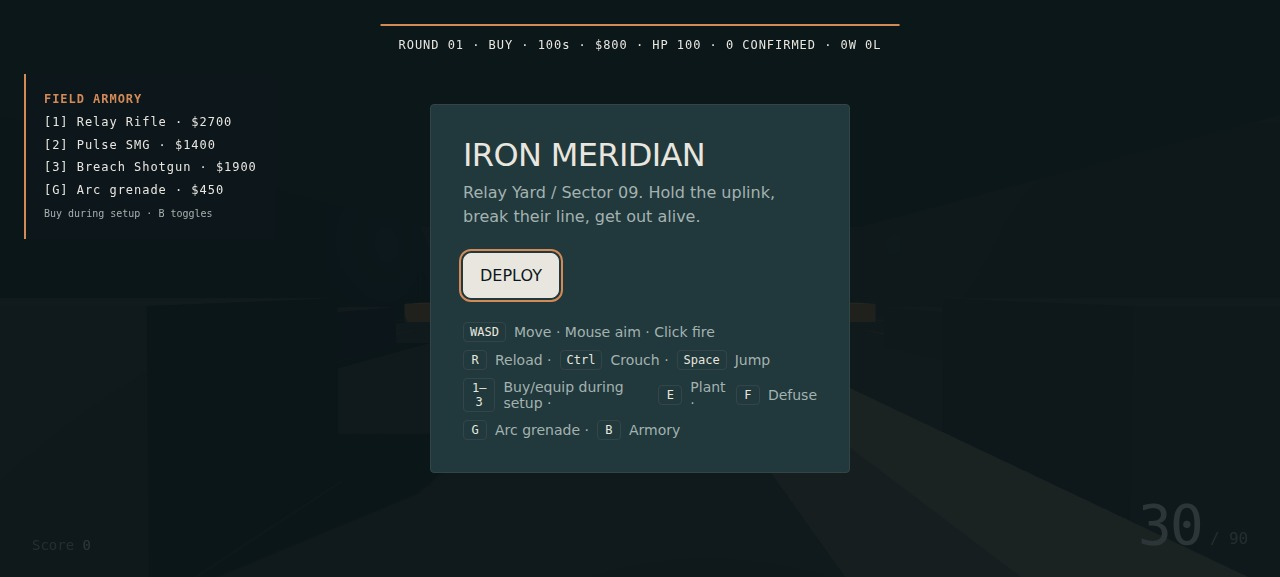
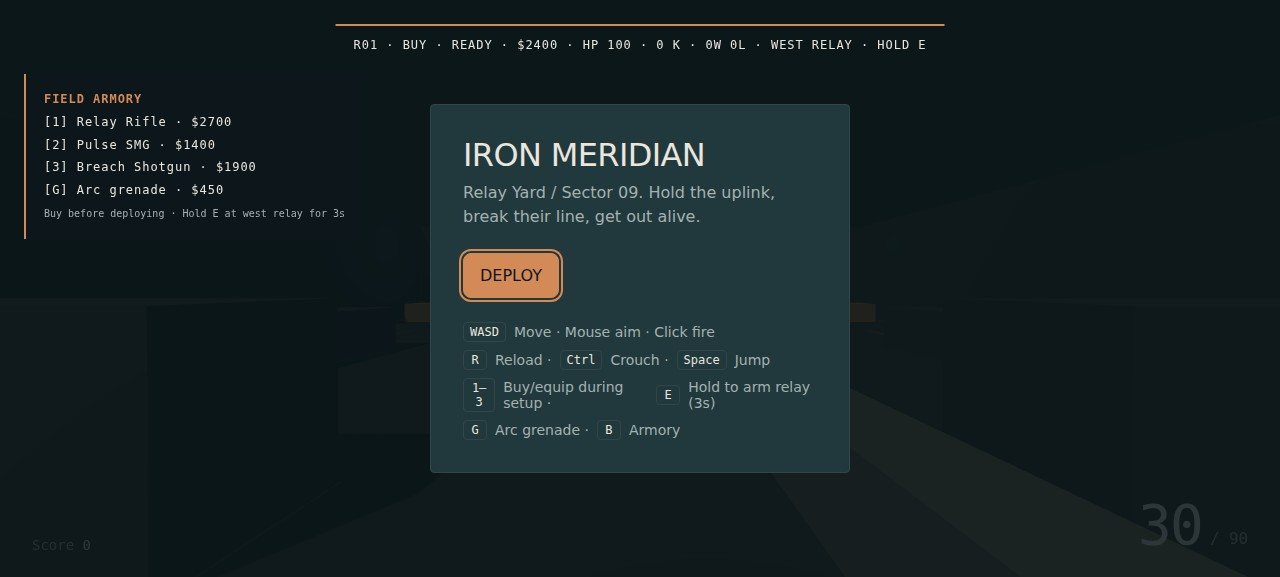
Repair live loop and implement tested relay round lifecycle

diff --git a/game/src/main.js b/game/src/main.js
@@ -1,82 +1,153 @@
-// Boot and the one loop: a fixed 60 Hz simulation feeding a render at the display's rate.
-// ?shot=start|play|end with &seed=N sets up a deterministic frame for a capture, renders it
-// twice, then freezes it and sets window.__shotReady.
+// Iron Meridian: offline relay assault, fixed-step simulation and explicit round rules.
 import * as THREE from 'three';
-import { PALETTE } from './palette.js';
-import { createWorld } from './world.js';
-import { createInput } from './input.js';
-import { createPlayer } from './player.js';
-import { createWeapon } from './weapon.js';
-import { createTargets } from './targets.js';
-import { createHud } from './hud.js';
-
-const FIXED_STEP = 1 / 60;
-const params = new URLSearchParams(window.location.search);
-const shot = params.get('shot');
-const seed = Number.parseInt(params.get('seed') ?? '1', 10) || 1;
-
-function mulberry32(initial) {
-  let a = initial;
-  return function random() {
-    a |= 0;
-    a = (a + 0x6d2b79f5) | 0;
-    let t = Math.imul(a ^ (a >>> 15), 1 | a);
-    t = (t + Math.imul(t ^ (t >>> 7), 61 | t)) ^ t;
-    return ((t ^ (t >>> 14)) >>> 0) / 4294967296;
-  };
-}
-const random = mulberry32(seed);
-
-const renderer = new THREE.WebGLRenderer({ antialias: true, powerPreference: 'high-performance' });
-renderer.setPixelRatio(Math.min(window.devicePixelRatio, 2));
-renderer.setSize(window.innerWidth, window.innerHeight);
-renderer.shadowMap.enabled = true;
-renderer.shadowMap.type = THREE.PCFSoftShadowMap;
+import {PALETTE} from './palette.js';
+import {createWorld} from './world.js';
+import {createInput} from './input.js';
+import {createPlayer} from './player.js';
+import {createWeapon} from './weapon.js';
+import {createTargets} from './targets.js';
+import {createHud} from './hud.js';
+import {createRound,STORE} from './round.mjs';
+const params=new URLSearchParams(location.search),shot=params.get('shot');
+let seed=Number(params.get('seed'))||1;
+function random(){seed|=0;seed=(seed+0x6d2b79f5)|0;let t=Math.imul(seed^(seed>>>15),1|seed);t=(t+Math.imul(t^(t>>>7),61|t))^t;return((t^(t>>>14))>>>0)/4294967296;}
+const renderer=new THREE.WebGLRenderer({antialias:true,powerPreference:'high-performance'});
+renderer.setPixelRatio(Math.min(devicePixelRatio,2));
+renderer.setSize(innerWidth,innerHeight);
+renderer.shadowMap.enabled=true;
+renderer.shadowMap.type=THREE.PCFSoftShadowMap;
 document.getElementById('game').appendChild(renderer.domElement);
-
-const scene = new THREE.Scene();
-scene.background = new THREE.Color(PALETTE.canvas);
-scene.fog = new THREE.Fog(new THREE.Color(PALETTE.canvas), 18, 46);
-const camera = new THREE.PerspectiveCamera(74, window.innerWidth / window.innerHeight, 0.05, 140);
+const scene=new THREE.Scene();
+scene.background=new THREE.Color(PALETTE.canvas);
+scene.fog=new THREE.Fog(PALETTE.canvas,18,46);
+const camera=new THREE.PerspectiveCamera(74,innerWidth/innerHeight,.05,140);
 scene.add(camera);
-
-const world = createWorld(scene);
-const targets = createTargets(scene);
-const weapon = createWeapon(camera);
-const hud = createHud();
-const player = createPlayer(world.colliders);
-const input = createInput(renderer.domElement, onLockChange);
-const raycaster = new THREE.Raycaster();
-raycaster.far = 80;
-const shootables = world.shootables.concat(targets.hitMeshes);
-const direction = new THREE.Vector3();
-
-const PHASES={BUY:'BUY',LIVE:'LIVE',PLANT:'PLANT',ROUND_END:'ROUND_END'};
-const body=player.state, markerHoldMs=shot?4000:90, lastTime=performance.now();
-let accumulator=0, elapsed=0;
-let phase=PHASES.BUY, round=1, phaseTime=0, health=100, credits=800, wins=0, losses=0, planted=false, defuse=0, kills=0;
-const STORE={rifle:{cost:2700,mag:30,reserve:90},smg:{cost:1400,mag:36,reserve:108},shotgun:{cost:1900,mag:8,reserve:40}};
-let selected='rifle';
-const damageText=document.getElementById('damage-flash');
-const statusText=document.getElementById('round-objective');
-const storeText=document.getElementById('buy-menu');
-const objective=new THREE.Mesh(new THREE.OctahedronGeometry(.26,0),new THREE.MeshStandardMaterial({color:0xd38a57,emissive:0x7a2b13,emissiveIntensity:1.4}));objective.position.set(-8,1.65,-10);scene.add(objective);
-const objectiveRing=new THREE.Mesh(new THREE.TorusGeometry(1.6,.035,8,48),new THREE.MeshBasicMaterial({color:0xd38a57,transparent:true,opacity:.7}));objectiveRing.rotation.x=Math.PI/2;objectiveRing.position.set(-8,.08,-10);scene.add(objectiveRing);
-hud.setAmmo(weapon.state.mag,weapon.state.reserve);hud.setScore(0);
-targets.onPlayerDamage((amount)=>{if(phase!==PHASES.LIVE&&phase!==PHASES.PLANT)return;health=Math.max(0,health-amount);damageText.classList.add('show');setTimeout(()=>damageText.classList.remove('show'),150);if(health===0)finishRound(false);});
-hud.onPlay(()=>{if(phase===PHASES.BUY){phase=PHASES.LIVE;phaseTime=0;input.requestLock();}});
-function buy(name){if(phase!==PHASES.BUY)return;const item=STORE[name];if(!item||credits<item.cost)return;credits-=item.cost;selected=name;weapon.configure(item.mag,item.reserve);hud.setAmmo(weapon.state.mag,weapon.state.reserve);}
-function finishRound(won){phase=PHASES.ROUND_END;phaseTime=0;if(won){wins++;credits+=3250;kills+=1;}else{losses++;credits+=1900;}hud.setScore(wins*100+losses*40);if(document.pointerLockElement)document.exitPointerLock();hud.showOverlay(won?'end':'paused',wins*100+losses*40);}
-function restart(){round++;phase=PHASES.BUY;phaseTime=0;health=100;planted=false;defuse=0;player.state.position.set(0,0,9.5);targets.reset();weapon.refill();weapon.configure(STORE[selected].mag,STORE[selected].reserve);hud.setAmmo(weapon.state.mag,weapon.state.reserve);hud.showOverlay('start',wins*100+losses*40);}
-function onLockChange(locked){if(shot)return;if(locked){if(phase===PHASES.BUY){phase=PHASES.LIVE;phaseTime=0;}started=true;hud.hideOverlay();}else if(phase===PHASES.LIVE||phase===PHASES.PLANT)hud.showOverlay('paused',wins*100+losses*40);}
-function syncCamera(){camera.position.set(body.position.x,body.position.y+body.eye,body.position.z);camera.rotation.set(body.pitch,body.yaw,0,'YXZ');}
-function aimAt(point){const dx=point.x-body.position.x,dy=point.y-(body.position.y+body.eye),dz=point.z-body.position.z,length=Math.hypot(dx,dy,dz)||1;body.yaw=Math.atan2(-dx,-dz);body.pitch=Math.asin(Math.max(-1,Math.min(1,dy/length)));syncCamera();}
-function throwGrenade(){if(phase!==PHASES.LIVE||credits<450)return;credits-=450;camera.getWorldDirection(direction);const origin=camera.position.clone();const grenade=new THREE.Mesh(new THREE.SphereGeometry(.14,12,8),new THREE.MeshStandardMaterial({color:0x73c8b1,emissive:0x174a43}));grenade.position.copy(origin);scene.add(grenade);const velocity=direction.clone().multiplyScalar(9);let t=0;const tick=setInterval(()=>{t+=.04;velocity.y-=.35;grenade.position.addScaledVector(velocity,.04);if(t>1.3){clearInterval(tick);const blast=new THREE.PointLight(0x73c8b1,65,9);blast.position.copy(grenade.position);scene.add(blast);setTimeout(()=>{scene.remove(blast);scene.remove(grenade);},220);for(const item of targets.items){if(item.alive&&item.group.position.distanceTo(grenade.position)<5)targets.damage(item.torso,100);}}},40);}
-function shoot(spread){if(!weapon.takeRound())return false;camera.getWorldDirection(direction);direction.x+=(random()*2-1)*spread;direction.y+=(random()*2-1)*spread;direction.z+=(random()*2-1)*spread;direction.normalize();scene.updateMatrixWorld(true);raycaster.set(camera.position,direction);const hit=raycaster.intersectObjects(shootables,false)[0];if(hit&&hit.object.userData.target){const killed=targets.damage(hit.object,hit.object.userData.part==='head'?100:34);if(killed){kills++;credits+=300;hud.setScore(wins*100+losses*40+kills*10);}hud.hitMarker(killed,markerHoldMs);if(targets.remaining()===0)finishRound(true);}weapon.pullTrigger();player.recoil(.009+random()*.004,(random()*2-1)*.004);hud.setAmmo(weapon.state.mag,weapon.state.reserve);return true;}
-function step(dt){elapsed+=dt;player.step(dt,input.state.keys);weapon.step(dt);targets.step(dt,elapsed,body.position);if(phase===PHASES.LIVE||phase===PHASES.PLANT){phaseTime+=dt;if(!planted&&phaseTime>22)phase=PHASES.PLANT;if(planted&&phaseTime>45)finishRound(false);if(!planted&&body.position.distanceTo(objective.position)<2.2&&input.state.keys.has('KeyE')){planted=true;phase=PHASES.PLANT;phaseTime=0;objective.material.color.set(0xff4a3d);}if(planted&&body.position.distanceTo(objective.position)<2.2&&input.state.keys.has('KeyF')){defuse+=dt;if(defuse>4)finishRound(true);}else defuse=0;if(phaseTime>100&&!planted)finishRound(false);}else if(phase===PHASES.ROUND_END){phaseTime+=dt;if(phaseTime>3)restart();}}
-function frame(now){requestAnimationFrame(frame);const dt=Math.min((now-lastTime)/1000,.1);lastTime=now;if(!frozen){const look=input.takeLook();player.look(look.x,look.y);if(input.state.firing&&weapon.ready())shoot(weapon.spread(player.groundSpeed()));if(input.state.keys.has('KeyR'))weapon.reload();if(input.state.keys.has('Digit1'))buy('rifle');if(input.state.keys.has('Digit2'))buy('smg');if(input.state.keys.has('Digit3'))buy('shotgun');if(input.state.keys.has('KeyG'))throwGrenade();if(input.state.keys.has('KeyB'))storeText.classList.toggle('show');accumulator+=dt;let steps=0;while(accumulator>=FIXED_STEP&&steps<5){step(FIXED_STEP);accumulator-=FIXED_STEP;steps++;}if(accumulator>FIXED_STEP*5)accumulator=0;syncCamera();statusText.textContent=`ROUND ${String(round).padStart(2,'0')} · ${phase} · ${Math.max(0,Math.ceil((phase===PHASES.BUY?12:100-phaseTime)))}s · $${credits} · HP ${health} · ${kills} CONFIRMED · ${wins}W ${losses}L`;statusText.classList.add('show');if(phase===PHASES.BUY)storeText.classList.add('show');else storeText.classList.remove('show');objective.rotation.y+=dt*.8;}renderer.render(scene,camera);}
-function settle(steps){for(let i=0;i<steps;i++)step(FIXED_STEP);}
-function runShot(name){hud.hideOverlay();body.pitch=0;body.yaw=0;if(name==='play'||name==='end'){body.position.set(0,0,9.5);phase=PHASES.LIVE;const count=name==='play'?1:targets.items.length;for(let i=0;i<count;i++){const p=targets.aimPoint(i);for(let n=0;n<3;n++){aimAt(p);shoot(0);if(n<2)settle(8);}}settle(12);aimAt(targets.aimPoint(0));}else{phase=PHASES.BUY;body.position.set(0,0,9.5);settle(20);aimAt(new THREE.Vector3(0,1.5,-5));hud.showOverlay('start',0);}statusText.textContent=`ROUND 01 · ${phase} · 100s · $${credits} · HP ${health} · 0 CONFIRMED · 0W 0L`;statusText.classList.add('show');storeText.classList.add('show');paintTwiceThenReady();}
-function paintTwiceThenReady(){let painted=0;function paint(){requestAnimationFrame(paint);syncCamera();renderer.render(scene,camera);if(++painted===2){window.__shotReady=true;frozen=true;}}requestAnimationFrame(paint);}
+const world=createWorld(scene),targets=createTargets(scene),weapon=createWeapon(camera);
+const player=createPlayer(world.colliders),hud=createHud(),rules=createRound();
+const input=createInput(renderer.domElement,locked=>{
+ if(shot)return;
+ if(locked){rules.deploy();hud.hideOverlay();}
+ else if(rules.phase==='LIVE'||rules.phase==='PLANT')hud.showOverlay('paused',score());
+});
+const ray=new THREE.Raycaster();ray.far=80;
+const direction=new THREE.Vector3();
+const status=document.getElementById('round-objective');
+const store=document.getElementById('buy-menu');
+const damage=document.getElementById('damage-flash');
+const relay=new THREE.Mesh(new THREE.OctahedronGeometry(.26),new THREE.MeshStandardMaterial({color:0xd38a57,emissive:0x7a2b13,emissiveIntensity:1.4}));
+relay.position.set(-8,1.65,-10);scene.add(relay);
+const ring=new THREE.Mesh(new THREE.TorusGeometry(1.6,.035,8,48),new THREE.MeshBasicMaterial({color:0xd38a57,transparent:true,opacity:.7}));
+ring.rotation.x=Math.PI/2;ring.position.set(-8,.08,-10);scene.add(ring);
+let lastTime=performance.now(),accumulator=0,elapsed=0,frozen=false;
+let previousPhase=rules.phase,previousRound=rules.round,armory=true;
+const grenades=[];
+function score(){return rules.wins*100+rules.kills*10;}
+function syncCamera(){const b=player.state;camera.position.set(b.position.x,b.position.y+b.eye,b.position.z);camera.rotation.set(b.pitch,b.yaw,0,'YXZ');}
+function aimAt(p){const b=player.state,dx=p.x-b.position.x,dy=p.y-b.position.y-b.eye,dz=p.z-b.position.z;b.yaw=Math.atan2(-dx,-dz);b.pitch=Math.asin(dy/(Math.hypot(dx,dy,dz)||1));syncCamera();}
+function buy(name){if(rules.buy(name))weapon.configure(STORE[name].mag,STORE[name].reserve);}
+hud.onPlay(()=>{
+ if(rules.phase==='ROUND_END'){rules.next();resetRound();}
+ rules.deploy();input.requestLock();
+});
+targets.onPlayerDamage(amount=>{
+ rules.hit(amount);damage.classList.add('show');
+ setTimeout(()=>damage.classList.remove('show'),140);
+});
+function resetRound(){
+ player.state.position.set(0,0,9.5);targets.reset();weapon.refill();
+ weapon.configure(STORE[rules.selected].mag,STORE[rules.selected].reserve);
+ relay.material.color.set(0xd38a57);armory=true;hud.showOverlay('start',score());
+}
+function shoot(){
+ if(!weapon.ready()||!weapon.takeRound())return;
+ camera.getWorldDirection(direction);
+ const spread=weapon.spread(player.groundSpeed());
+ direction.x+=(random()*2-1)*spread;direction.y+=(random()*2-1)*spread;
+ direction.normalize();scene.updateMatrixWorld(true);ray.set(camera.position,direction);
+ const living=targets.items.filter(t=>t.alive).flatMap(t=>[t.torso,t.head]);
+ const hit=ray.intersectObjects(world.shootables.concat(living),false)[0];
+ if(hit?.object.userData.target){
+  const killed=targets.damage(hit.object,hit.object.userData.part==='head'?100:34);
+  if(killed)rules.confirmKill();hud.hitMarker(killed,shot?4000:90);
+ }
+ weapon.pullTrigger();player.recoil(.009+random()*.004,(random()*2-1)*.004);
+}
+function throwGrenade(){
+ if(rules.credits<450||grenades.length>=2)return;
+ rules.credits-=450;camera.getWorldDirection(direction);
+ const mesh=new THREE.Mesh(new THREE.SphereGeometry(.14,10,8),new THREE.MeshStandardMaterial({color:0x73c8b1,emissive:0x174a43}));
+ mesh.position.copy(camera.position);scene.add(mesh);
+ grenades.push({mesh,velocity:direction.clone().multiplyScalar(11).add(new THREE.Vector3(0,3,0)),life:1.4});
+}
+function tick(dt){
+ const active=Boolean(shot||input.state.locked);
+ if(active&&(rules.phase==='LIVE'||rules.phase==='PLANT')){
+  elapsed+=dt;player.step(dt,input.state.keys);weapon.step(dt);
+  targets.step(dt,elapsed,player.state.position);
+  for(let i=grenades.length-1;i>=0;i--){
+   const g=grenades[i];g.life-=dt;g.velocity.y-=9.8*dt;g.mesh.position.addScaledVector(g.velocity,dt);
+   if(g.mesh.position.y<.15){g.mesh.position.y=.15;g.velocity.y=Math.abs(g.velocity.y)*.35;g.velocity.x*=.7;g.velocity.z*=.7;}
+   if(g.life<=0){
+    for(const t of targets.items)if(t.alive&&t.group.position.distanceTo(g.mesh.position)<5&&targets.damage(t.torso,100))rules.confirmKill();
+    scene.remove(g.mesh);g.mesh.geometry.dispose();g.mesh.material.dispose();grenades.splice(i,1);
+   }
+  }
+ }
+ const b=player.state.position;
+ rules.tick(dt,active,{onSite:Math.hypot(b.x+8,b.z+10)<2.2,interact:input.state.keys.has('KeyE'),clear:targets.remaining()===0});
+ if(rules.round!==previousRound){previousRound=rules.round;resetRound();}
+ if(rules.phase!==previousPhase){
+  if(rules.phase==='ROUND_END'){
+   if(document.pointerLockElement)document.exitPointerLock();
+   hud.showOverlay(rules.health>0?'end':'paused',score());
+   document.getElementById('overlay-copy').textContent=rules.reason;
+  }
+  previousPhase=rules.phase;
+ }
+}
+window.addEventListener('keydown',event=>{
+ if(event.repeat)return;
+ if(event.code==='KeyB')armory=!armory;
+ const name={Digit1:'rifle',Digit2:'smg',Digit3:'shotgun'}[event.code];
+ if(name)buy(name);
+ if(event.code==='KeyG'&&input.state.locked&&rules.phase==='LIVE')throwGrenade();
+});
+function updateHud(){
+ hud.setAmmo(weapon.state.mag,weapon.state.reserve);hud.setScore(score());
+ const seconds=rules.phase==='BUY'?'READY':Math.max(0,Math.ceil((rules.planted?35:100)-rules.time))+'s';
+ const objective=rules.planted?'HOLD UPLINK':rules.progress>0?'ARMING '+Math.floor(rules.progress/3*100)+'%':'WEST RELAY · HOLD E';
+ status.textContent=`R${String(rules.round).padStart(2,'0')} · ${rules.phase} · ${seconds} · $${rules.credits} · HP ${Math.ceil(rules.health)} · ${rules.kills} K · ${rules.wins}W ${rules.losses}L · ${objective}`;
+ status.classList.add('show');store.classList.toggle('show',rules.phase==='BUY'&&armory);
+ relay.rotation.y=elapsed*.8;ring.material.opacity=rules.planted?.5+Math.sin(elapsed*6)*.3:.7;
+}
+function frame(now){
+ requestAnimationFrame(frame);
+ const dt=Math.min((now-lastTime)/1000,.1);lastTime=now;
+ if(!frozen){
+  if(input.state.locked){
+   const look=input.takeLook();player.look(look.x,look.y);
+   if(input.state.firing&&(rules.phase==='LIVE'||rules.phase==='PLANT'))shoot();
+   if(input.state.keys.has('KeyR'))weapon.reload();
+  }
+  accumulator+=dt;let steps=0;
+  while(accumulator>=1/60&&steps++<6){tick(1/60);accumulator-=1/60;}
+  if(accumulator>.1)accumulator=0;
+  syncCamera();updateHud();
+ }
+ renderer.render(scene,camera);
+}
+function runShot(name){
+ hud.hideOverlay();player.state.position.set(0,0,9.5);
+ if(name==='start'){hud.showOverlay('start',0);aimAt(new THREE.Vector3(0,1.5,-5));}
+ else{
+  rules.deploy();for(let i=0;i<90;i++)tick(1/60);aimAt(targets.aimPoint(0));
+  if(name==='end'){rules.finish(true,'Uplink complete. Sector secured.');hud.showOverlay('end',score());}
+ }
+ updateHud();syncCamera();frozen=true;
+ let paints=0;
+ function paint(){renderer.render(scene,camera);if(++paints<2)requestAnimationFrame(paint);else window.__shotReady=true;}
+ requestAnimationFrame(paint);
+}
 window.addEventListener('resize',()=>{camera.aspect=innerWidth/innerHeight;camera.updateProjectionMatrix();renderer.setSize(innerWidth,innerHeight);});
-syncCamera();if(shot)runShot(shot);else requestAnimationFrame(frame);
+syncCamera();updateHud();
+if(shot)runShot(shot);else requestAnimationFrame(frame);

diff --git a/game/src/targets.js b/game/src/targets.js
@@ -20,7 +20,7 @@ export function createTargets(scene){
   torso.userData.target=item; head.userData.target=item; hitMeshes.push(torso,head); items.push(item);
  }
  function damage(mesh,amount){const item=mesh.userData.target;if(!item||!item.alive)return false;item.health-=amount;if(item.health>0)return false;item.alive=false;item.fall=0;item.respawnAt=now+RESPAWN_SECONDS;return true;}
- function step(dt,time,playerPos){now=time;for(const item of items){if(!item.alive){item.fall=Math.min(1,item.fall+dt/FALL_SECONDS);item.group.rotation.x=-item.fall*1.4;item.group.position.y=-item.fall*.1;if(time>=item.respawnAt){item.alive=true;item.health=HEALTH;item.fall=0;item.group.rotation.x=0;item.group.position.copy(item.home);}continue;}
+ function step(dt,time,playerPos){now=time;for(const item of items){if(!item.alive){item.fall=Math.min(1,item.fall+dt/FALL_SECONDS);item.group.rotation.x=-item.fall*1.4;item.group.position.y=-item.fall*.1;continue;}
    item.group.position.y=0; const lane=item.waypoint===1?2.7:-2.7, dx=lane-item.group.position.x, dz=-4.4-item.group.position.z, d=Math.hypot(dx,dz)||1;
    item.group.position.x+=dx/d*dt*.85; item.group.position.z+=dz/d*dt*.85; if(d<.6)item.waypoint*=-1;
    const px=playerPos.x-item.group.position.x,pz=playerPos.z-item.group.position.z,dist=Math.hypot(px,pz); item.group.rotation.y=Math.atan2(-px,-pz);

diff --git a/game/index.html b/game/index.html
@@ -156,7 +156,7 @@
 </head>
 <body>
 <div id="game"></div>
-<div id="round-objective"></div><div id="buy-menu"><b>FIELD ARMORY</b><br>[1] Relay Rifle · $2700<br>[2] Pulse SMG · $1400<br>[3] Breach Shotgun · $1900<br>[G] Arc grenade · $450<br><small>Buy during setup · B toggles</small></div><div id="damage-flash">UNDER FIRE</div>
+<div id="round-objective"></div><div id="buy-menu"><b>FIELD ARMORY</b><br>[1] Relay Rifle · $2700<br>[2] Pulse SMG · $1400<br>[3] Breach Shotgun · $1900<br>[G] Arc grenade · $450<br><small>Buy before deploying · Hold E at west relay for 3s</small></div><div id="damage-flash">UNDER FIRE</div>
 
 <div id="hud" aria-hidden="true">
   <div id="crosshair"><i></i><i></i><i></i><i></i></div>
@@ -173,7 +173,7 @@
     <ul class="keys">
       <li><kbd>WASD</kbd> Move · Mouse aim · Click fire</li>
       <li><kbd>R</kbd> Reload · <kbd>Ctrl</kbd> Crouch · <kbd>Space</kbd> Jump</li>
-      <li><kbd>1–3</kbd> Buy/equip during setup · <kbd>E</kbd> Plant · <kbd>F</kbd> Defuse</li>
+      <li><kbd>1–3</kbd> Buy/equip during setup · <kbd>E</kbd> Hold to arm relay (3s)</li>
       <li><kbd>G</kbd> Arc grenade · <kbd>B</kbd> Armory</li>
     </ul>
   </section>

diff --git a/README.md b/README.md
@@ -1,0 +1,17 @@
+# IRON MERIDIAN: Relay Yard
+
+An offline Three.js relay-assault FPS. Deploy into an industrial yard, eliminate the defending operators or hold E at the west relay for three seconds and protect the uplink for 35 seconds. Round rewards fund the next deployment.
+
+[![make.fun · threejs-fps-02](https://make.fun/badge/threejs-fps-02.svg)](https://make.fun/bounty/threejs-fps-02?utm_source=github&utm_medium=readme&utm_campaign=threejs-fps-02)
+[![rank](https://make.fun/badge/threejs-fps-02/dinnpacak/projectmakefun/rank.svg)](https://make.fun/bounty/threejs-fps-02/leaderboard?utm_source=github&utm_medium=readme&utm_campaign=threejs-fps-02)
+[![reward](https://make.fun/badge/threejs-fps-02/dinnpacak/projectmakefun/reward.svg)](https://make.fun/bounty/threejs-fps-02?utm_source=github&utm_medium=readme&utm_campaign=threejs-fps-02)
+
+Run `python3 -m http.server 8080 --directory game`, then open http://localhost:8080 in desktop Chrome. No CDN, account, build step or network asset is required.
+
+WASD moves, mouse aims, left click fires, R reloads, Space jumps, Ctrl crouches. Buy with 1–3 before deploying. G throws a grenade; E arms the relay. Esc releases the pointer and pauses combat; Resume requests pointer lock again. Defenders remain eliminated until the next round.
+
+The HUD shows health, credits, kills, round record, objective and time. Stationary shots are more accurate than moving shots. Headshots eliminate in one hit. Grenades consume $450 and simulate in the same paused fixed-step clock as combat.
+
+Validation: round-economy, paused-clock, held-plant, objective-completion, lethal-damage and no-mid-round-respawn tests pass. Real browser captures accompany the dossier. Screenshot query modes are illustrative staged views, not proof of a played victory.
+
+Built for [make.fun's tactical FPS bounty](https://make.fun/bounty/threejs-fps-02). MIT licensed.
